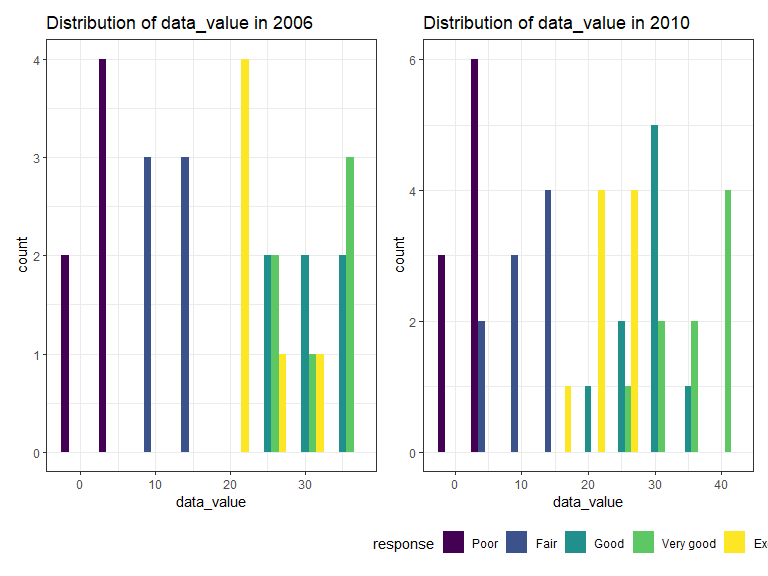
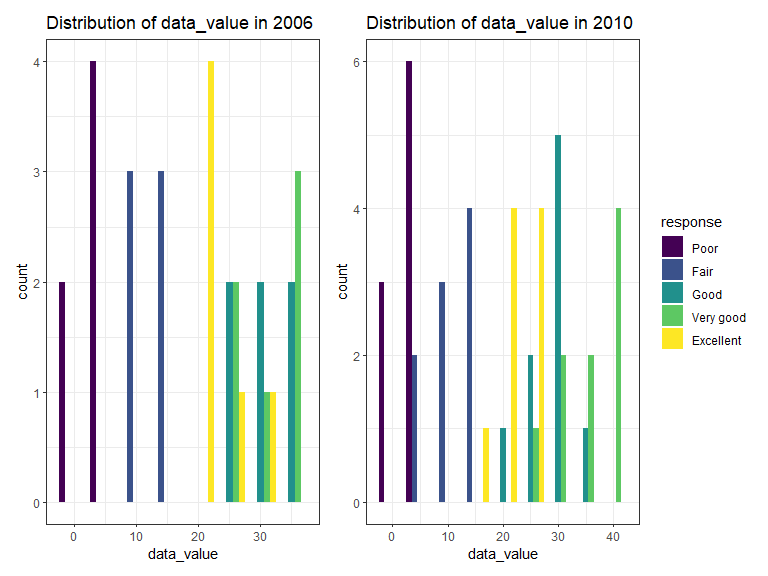
some changes

diff --git a/p8105_hw3_yb2584.md b/p8105_hw3_yb2584.md
@@ -281,8 +281,7 @@ plot_2010=
   geom_histogram(position = "dodge", binwidth = 5)+
   labs(
     title = "Distribution of data_value in 2010"
-  )+
-  theme(legend.position = "bottom")
+  )
 
 plot_2006+plot_2010
 ```
